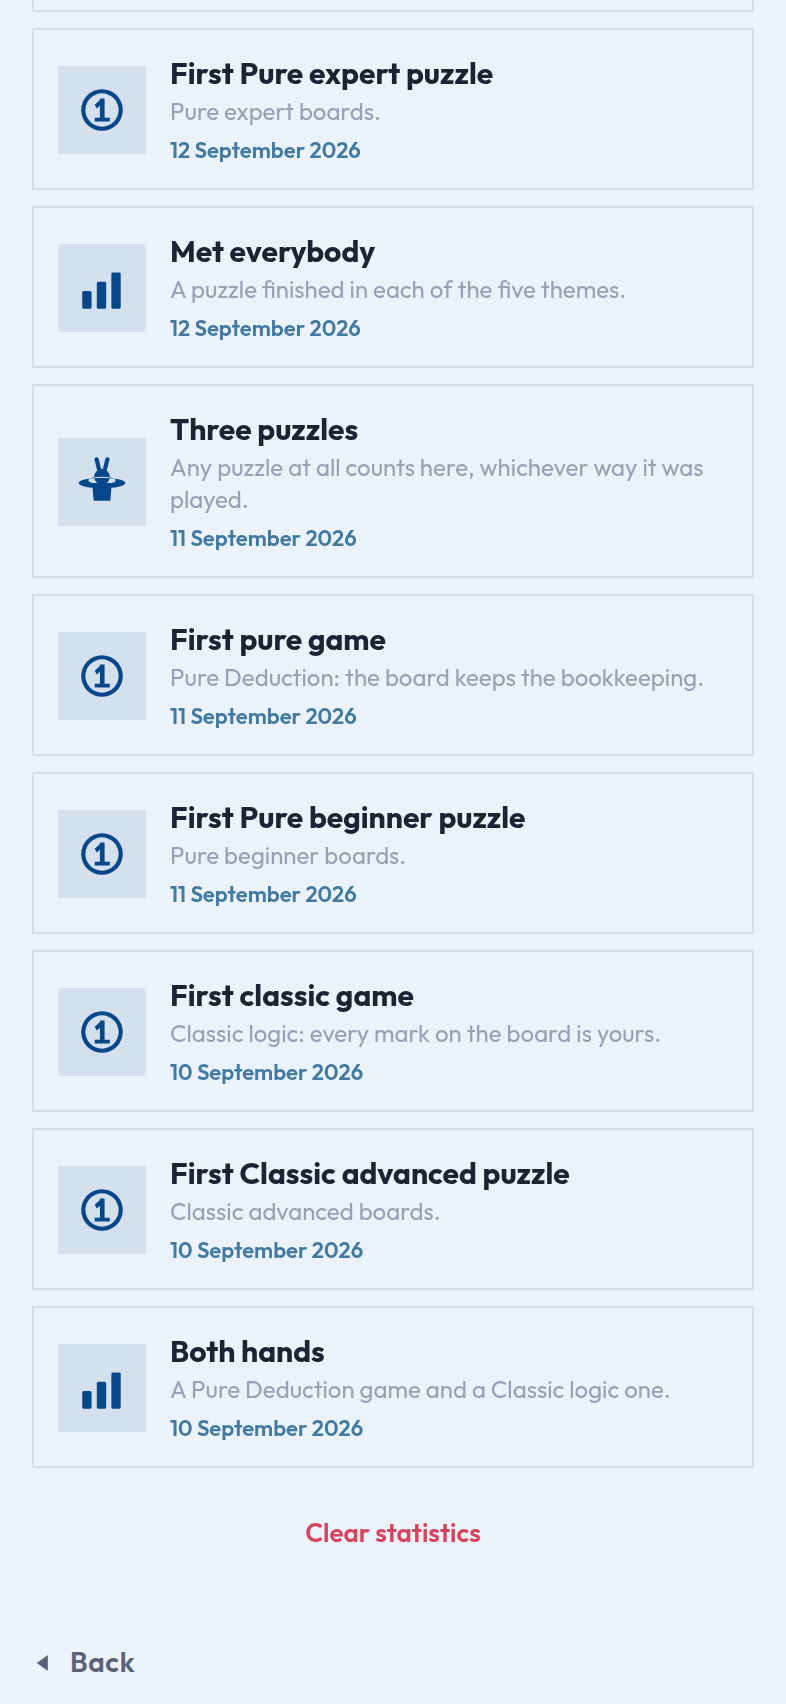
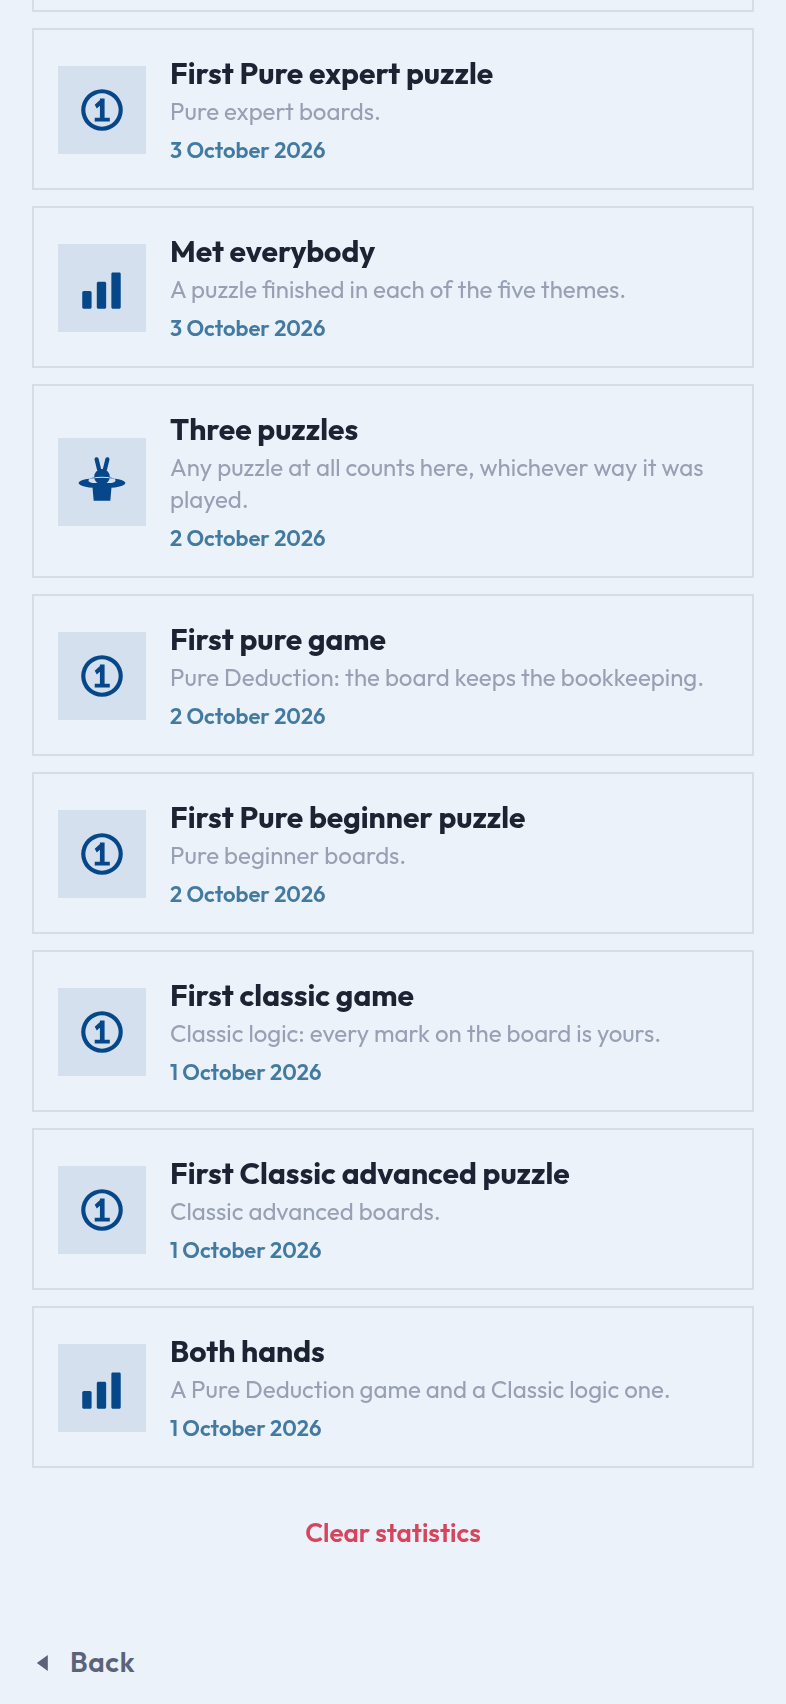
A daily is played once
The finish offered Play again on every board, the daily included, which
put a recorded daily back to blank and let the time be set a second
time. The whole of what a daily is for is that everybody is racing the
same board under the same terms, on the day: one at each difficulty,
picked by nobody. A second go at a time already set is not a second go
at the same thing.

So a daily finish is given no Play again and shows Share on its own,
which is what a result read back out of the history has always shown.
Nothing else had to change to close it: the burger goes with the board
at the finish, the daily list sends a finished challenge to its result
rather than to a board, and a completed game clears its own save, so
Continue has nothing to reopen. Share stays, because a time is still a
time to send somebody.

Claude-Session: https://claude.ai/code/session_01RrDehsX5bvPAsFa5dYERaj

diff --git a/src/screens/__tests__/screens.test.tsx b/src/screens/__tests__/screens.test.tsx
@@ -929,14 +929,17 @@ describe('the board', () => {
   };
 
   /** Every correct pair ticked, which is a board with nothing left to do. */
-  function solvedMarks(): Marks {
+  function solvedMarks(forPuzzle: Puzzle = puzzle): Marks {
     let marks: Marks = {};
-    for (const [c1, c2] of categoryPairs(puzzle.categories.length)) {
-      for (let i1 = 0; i1 < puzzle.size.items; i1++) {
-        for (let i2 = 0; i2 < puzzle.size.items; i2++) {
+    for (const [c1, c2] of categoryPairs(forPuzzle.categories.length)) {
+      for (let i1 = 0; i1 < forPuzzle.size.items; i1++) {
+        for (let i2 = 0; i2 < forPuzzle.size.items; i2++) {
           const cell = { c1, i1, c2, i2 };
-          if (isCorrectPair(puzzle, cell)) {
-            marks = setMark(marks, cell, 'yes', { size: puzzle.size.items, autoEliminate: true });
+          if (isCorrectPair(forPuzzle, cell)) {
+            marks = setMark(marks, cell, 'yes', {
+              size: forPuzzle.size.items,
+              autoEliminate: true,
+            });
           }
         }
       }
@@ -1761,6 +1764,49 @@ describe('the board', () => {
     expect(button('Undo')).toBeDisabled();
     layOut();
     expect(screen.getAllByRole('button', { name: /: unknown$/ })).toHaveLength(6 * 9);
+  });
+
+  /**
+   * But not a daily. There is one a day at each difficulty, nobody picked it,
+   * and the whole of what it is for is that everybody is racing the same board
+   * under the same terms — so a second go at a time already set is not a second
+   * go at the same thing. The finish offers Share and nothing else, which is
+   * what a result read back out of the history has always offered.
+   */
+  it('will not put a finished daily back', async () => {
+    const today = puzzleOne('sm', dailySeed(new Date(2026, 8, 2), 'sm'));
+    stage(
+      <GameScreen
+        puzzle={today}
+        autoEliminate
+        autoFacts
+        checkClues={DEFAULT_SETTINGS.checkClues}
+        accent={DEFAULT_SETTINGS.accent}
+        colours={DEFAULT_SETTINGS.colours}
+        onToggleAutoEliminate={none}
+        onToggleAutoFacts={none}
+        onToggleCheckClues={none}
+        onChangeAccent={none}
+        onChangeColours={none}
+        restore={{ ...savedGame(today), marks: solvedMarks(today), seconds: 300 }}
+        daily
+        onExit={none}
+        onSaveProgress={async () => true}
+        onDiscardProgress={none}
+        onCompleted={async () => ({ improvement: firstTime, recorded: true })}
+      />,
+    );
+    await act(async () => {
+      jest.advanceTimersByTime(0);
+    });
+
+    expect(screen.getByText('Solved!')).toBeOnTheScreen();
+    expect(screen.getByText('Daily advanced · 2 September 2026')).toBeOnTheScreen();
+    // Share stays: a time is still a time to send somebody.
+    expect(button('Share')).toBeEnabled();
+    expect(screen.queryByRole('button', { name: 'Play again' })).toBeNull();
+    // And the burger went with the board, so there is no second door onto it.
+    expect(screen.queryByRole('button', { name: 'Menu' })).toBeNull();
   });
 });
 

diff --git a/src/screens/GameScreen.tsx b/src/screens/GameScreen.tsx
@@ -809,7 +809,16 @@ export function GameScreen({
               feedback.tap();
               void shareResult({ puzzle, seconds, cluesUsed: cluesSeen.size, hintsAsked, daily });
             }}
-            onPlayAgain={restart}
+            // A daily is played once. There is one a day at each difficulty,
+            // nobody picked it, and the whole of what it is for is that
+            // everybody is racing the same board under the same terms — a
+            // second go at a time already set is not a second go at the same
+            // thing. The list behind this screen already sends a finished
+            // daily to its result rather than to a board, and the burger goes
+            // with the board at the finish, so withholding this leaves no way
+            // back onto it. The panel shows Share on its own, which is what a
+            // result read back out of the history has always done.
+            onPlayAgain={daily ? undefined : restart}
           />
         ) : (
           <View style={styles.fill}>

diff --git a/src/components/SolvedPanel.tsx b/src/components/SolvedPanel.tsx
@@ -64,8 +64,11 @@ interface Props {
  * as always, so the result stays something to read rather than a junction to
  * get past.
  *
- * A result read back out of the history has no board to put back, so it is
- * given no `onPlayAgain` and shows Share on its own.
+ * Two finishes show Share on its own, because neither has a board to put back:
+ * a result read back out of the history, and a daily. A daily is played once —
+ * one a day at each difficulty, picked by nobody, and the whole of what it is
+ * for is that everybody is racing the same board under the same terms, so a
+ * second go at a time already set is not a second go at the same thing.
  */
 export function SolvedPanel({
   title,

diff --git a/README.md b/README.md
@@ -437,8 +437,11 @@ captures are for.
    **Share** and the same width as it, puts the puzzle back the way it was
    found — blank board, clock at zero, no clue read. It asks nothing first,
    since the game is already in the history and there is nothing here to throw
-   away. `◀ Back` still leads to the setup screen, where a *different* puzzle
-   is chosen.
+   away. A finished **daily** gets Share on its own: there is one a day at each
+   difficulty, nobody picked it, and everybody is racing the same board under
+   the same terms, so a second go at a time already set is not a second go at
+   the same thing. `◀ Back` still leads to the setup screen, where a
+   *different* puzzle is chosen.
 9. **Puzzle settings**, behind the burger at the top left, holds everything that acts
    on the game rather than on a square: the two board settings and the colour,
    boxed and named exactly as the settings screen has them (they are the
@@ -860,7 +863,11 @@ everything the squares would.
 
 The result offers two things, on one row: **Play again**, which is `restart` —
 the same call the burger's menu makes, minus the confirmation, because a
-recorded game has nothing left to lose — and **Share**, which leaves the app.
+recorded game has nothing left to lose — and **Share**, which leaves the app. A
+daily is given no `onPlayAgain` and shows Share alone, which is also what a
+result read back out of the history does; with the burger gone and the daily
+list sending a finished challenge to its result rather than to a board, that
+leaves no way back onto a daily once it is done.
 Anything else a player might want next — another puzzle, a different
 difficulty, the statistics — is where it always is, behind `◀ Back`, so the
 panel stays something to read rather than a junction to get past.
